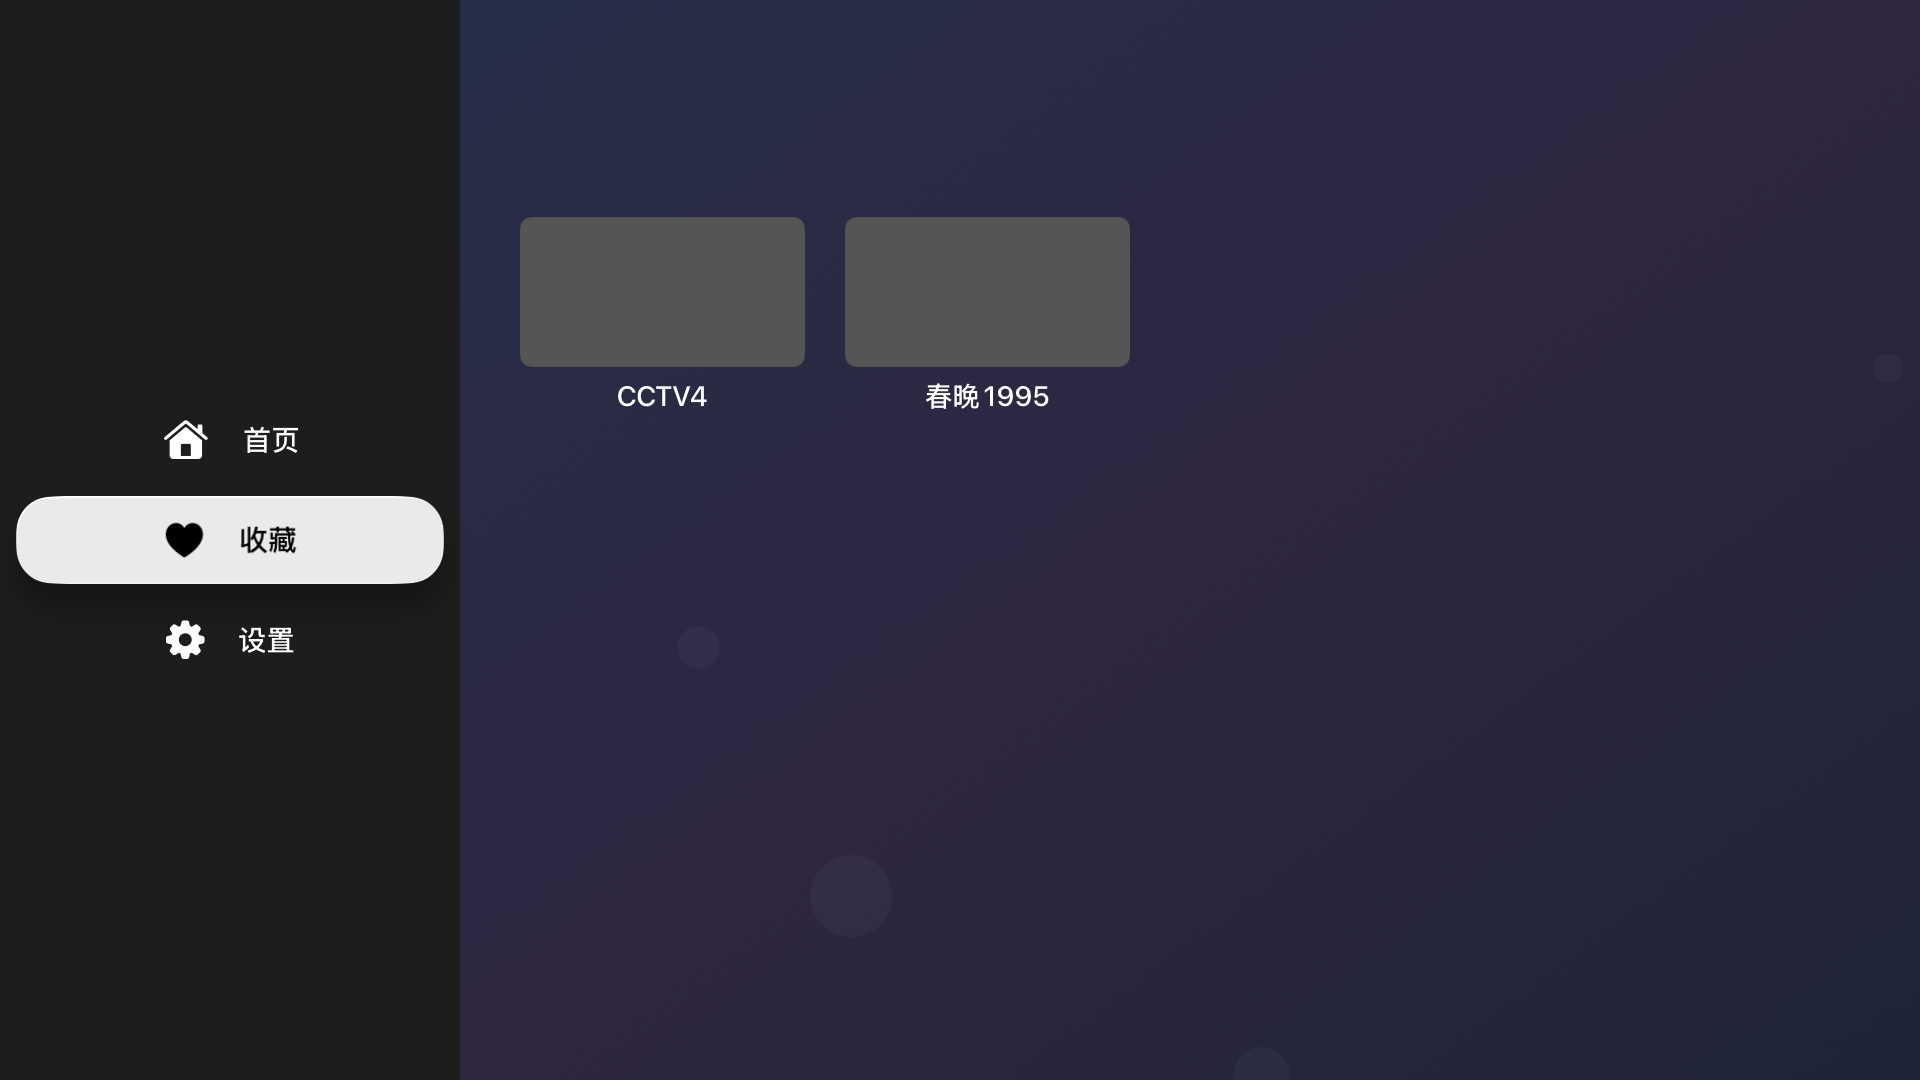
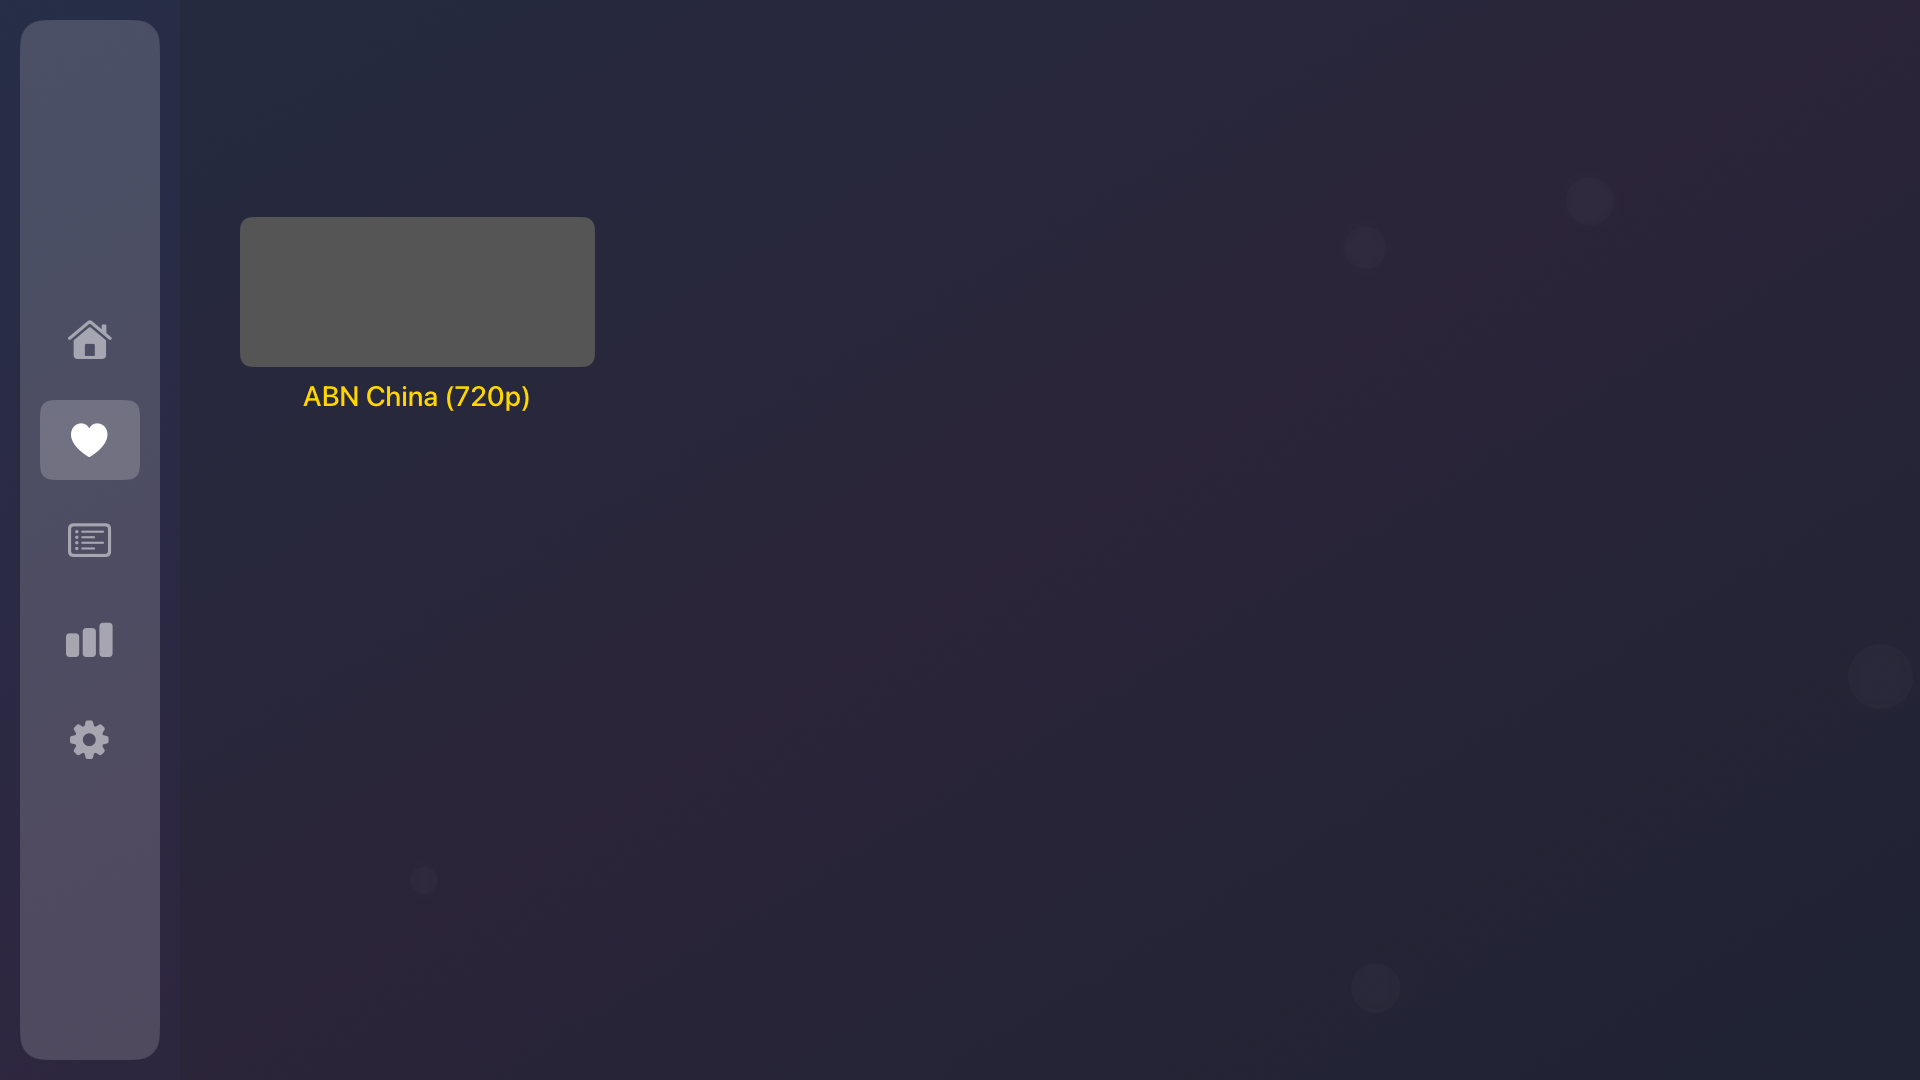
THLIPTV 的上架准备

Changed region(s): [[0.0, 0.0, 0.2812, 1.0], [0.3125, 0.1833, 0.5938, 0.3972]]

diff --git a/README.md b/README.md
@@ -7,6 +7,13 @@
 TVOS上使用的IPTV的播放工具<br>
 TF地址<br>
 - [https://testflight.apple.com/join/EVsAuvZn](https://testflight.apple.com/join/EVsAuvZn)
+
+# 申明
+工具只提供播放器，不提供内容
+<p align="center">
+  <img alt="小葫芦" src="screenshot/首页提示.png" />
+</p>
+
 # 首页
 左侧显示功能列表，右边展示首页，首页显示订阅列表并且可以添加订阅
 <p align="center">
@@ -22,7 +29,7 @@ TF地址<br>
   <img alt="小葫芦" src="screenshot/收藏.png" />
 </p>
 # 播放列表
-显示播放列表，可以检测网络状态，并且删除无法使用的频道
+显示播放列表，可以检测网络状态，列表上会显示频道的图标+文字，通过遥控器上下切换频道，当需要沉浸式的播放视频，可以通过select 按钮，进去播放页面，右侧可以收藏该频道，可以对频道列表进行测速，删除无法使用的频道
 <p align="center">
   <img alt="小葫芦" src="screenshot/播放列表.png" width ="400px"/>
 </p>
@@ -31,13 +38,36 @@ TF地址<br>
 <p align="center">
   <img alt="小葫芦" src="screenshot/视频播放.png" width ="400px"/>
 </p>
+# 统计
+进入设置页面
+<p align="center">
+  <img alt="小葫芦" src="screenshot/统计.png" width ="400px"/>
+</p>
+
+# EPG相关
+EPG设置
+<p align="center">
+  <img alt="小葫芦" src="screenshot/EPG设置.png" width ="400px"/>
+</p>
+浏览EPG
+<p align="center">
+  <img alt="小葫芦" src="screenshot/浏览EPG.png" width ="400px"/>
+</p>
+
+EPG详情
+<p align="center">
+  <img alt="小葫芦" src="screenshot/EPG详情.png" width ="400px"/>
+</p>
+
+
 # 设置
 进入设置页面
 <p align="center">
   <img alt="小葫芦" src="screenshot/设置.png" width ="400px"/>
 </p>
 
-进入IPTV的设置
+
+# 进入IPTV的设置
 
 <p align="center">
   <img alt="小葫芦" src="screenshot/IPTV设置.png" width ="400px"/>
@@ -63,13 +93,9 @@ TF地址<br>
 - [CocoaLumberjack/CocoaLumberjack](https://github.com/CocoaLumberjack/CocoaLumberjack)
 - [SDWebImage/SDWebImage](https://github.com/SDWebImage/SDWebImage)
 -  [lechium/KBBulletinView](https://github.com/lechium/KBBulletinView)
--  [zattoo/TvOSSlider](https://github.com/zattoo/TvOSSlider)
 -  [vtourraine/VTAcknowledgementsViewController](https://github.com/vtourraine/VTAcknowledgementsViewController)
 -  [AliSoftware/Reusable](https://github.com/AliSoftware/Reusable)
 -  [nicklockwood/GZIP](https://github.com/nicklockwood/GZIP)
 -  [robbiehanson/CocoaAsyncSocket](https://github.com/robbiehanson/CocoaAsyncSocket)
 -  [SwiftyJSON/SwiftyJSON](https://github.com/SwiftyJSON/SwiftyJSON)
 -  [yichengchen/swifter](https://github.com/yichengchen/swifter)
--  [mattt/Ono](https://github.com/mattt/Ono)
--  [yichengchen/ATV-Bilibili-demo](https://github.com/yichengchen/ATV-Bilibili-demo)
--  [steventroughtonsmith/tvOSBrowser](https://github.com/steventroughtonsmith/tvOSBrowser)
